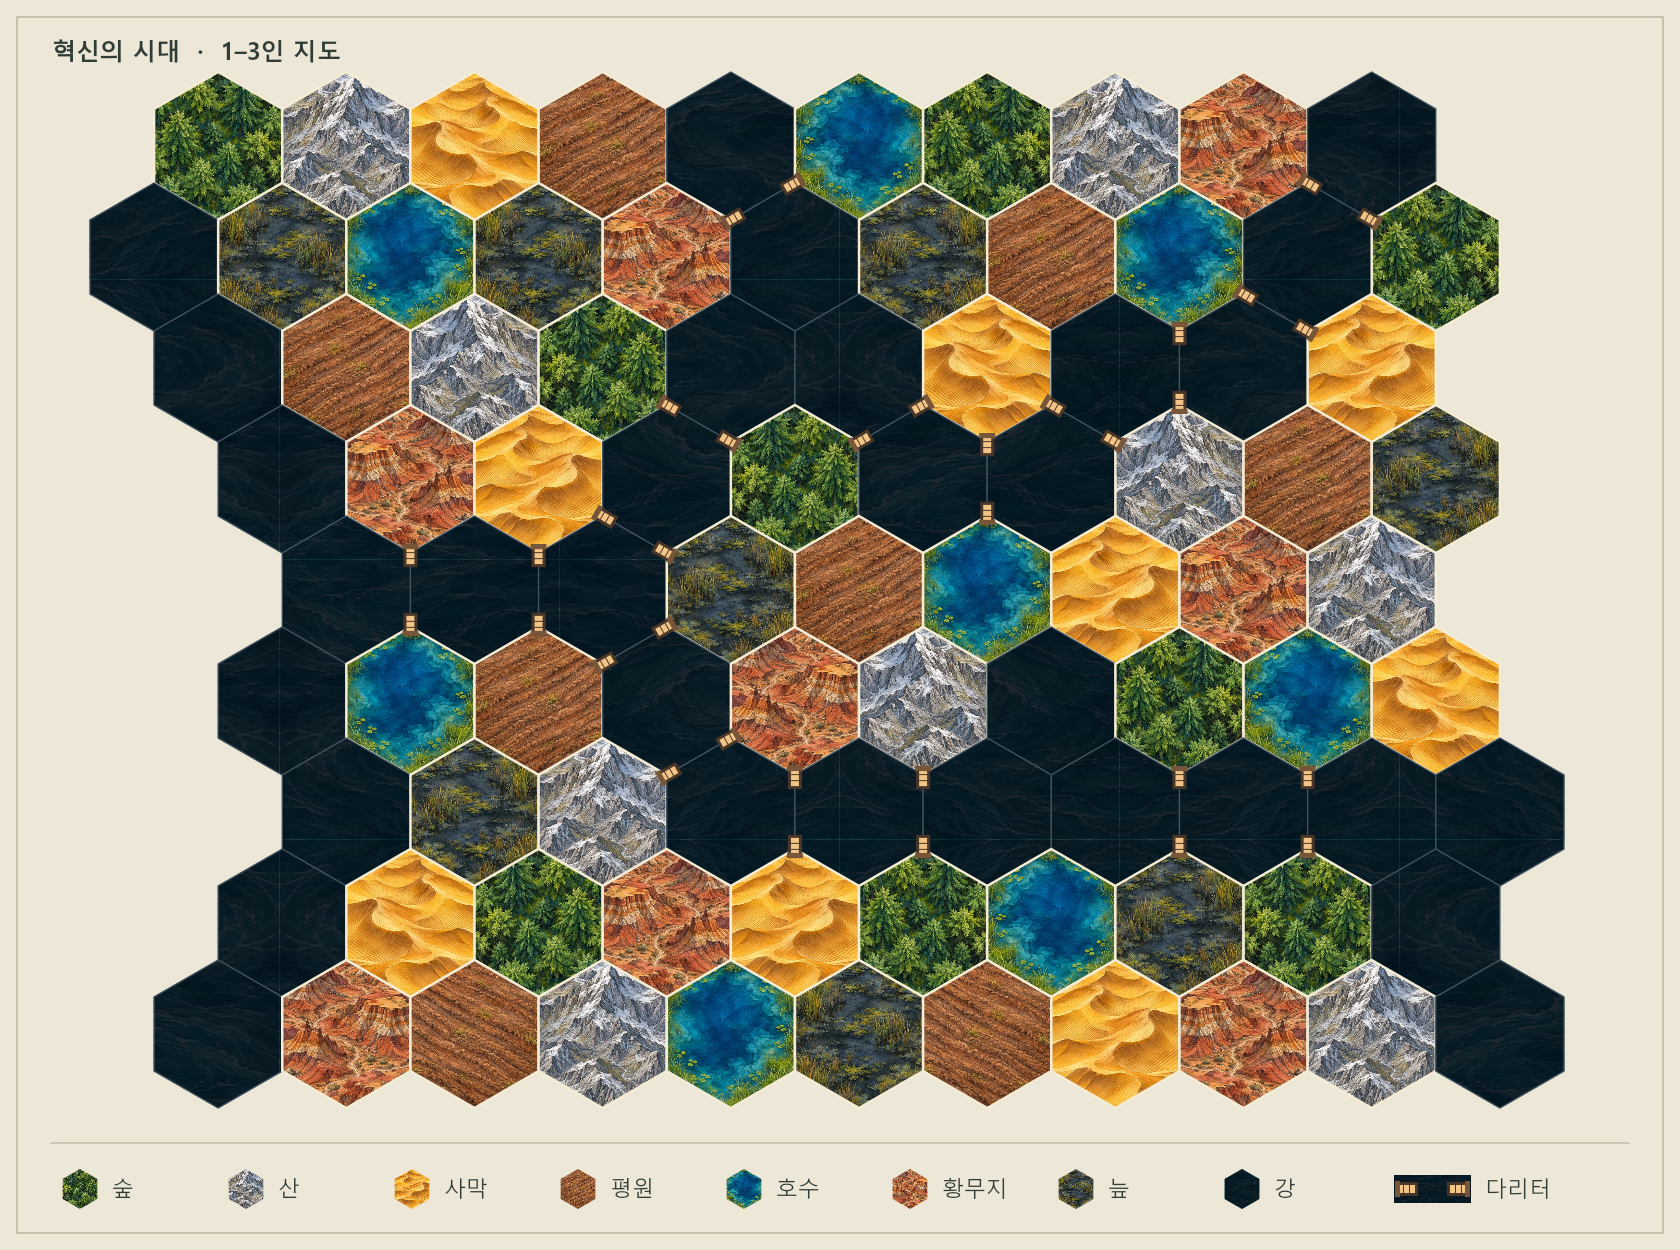
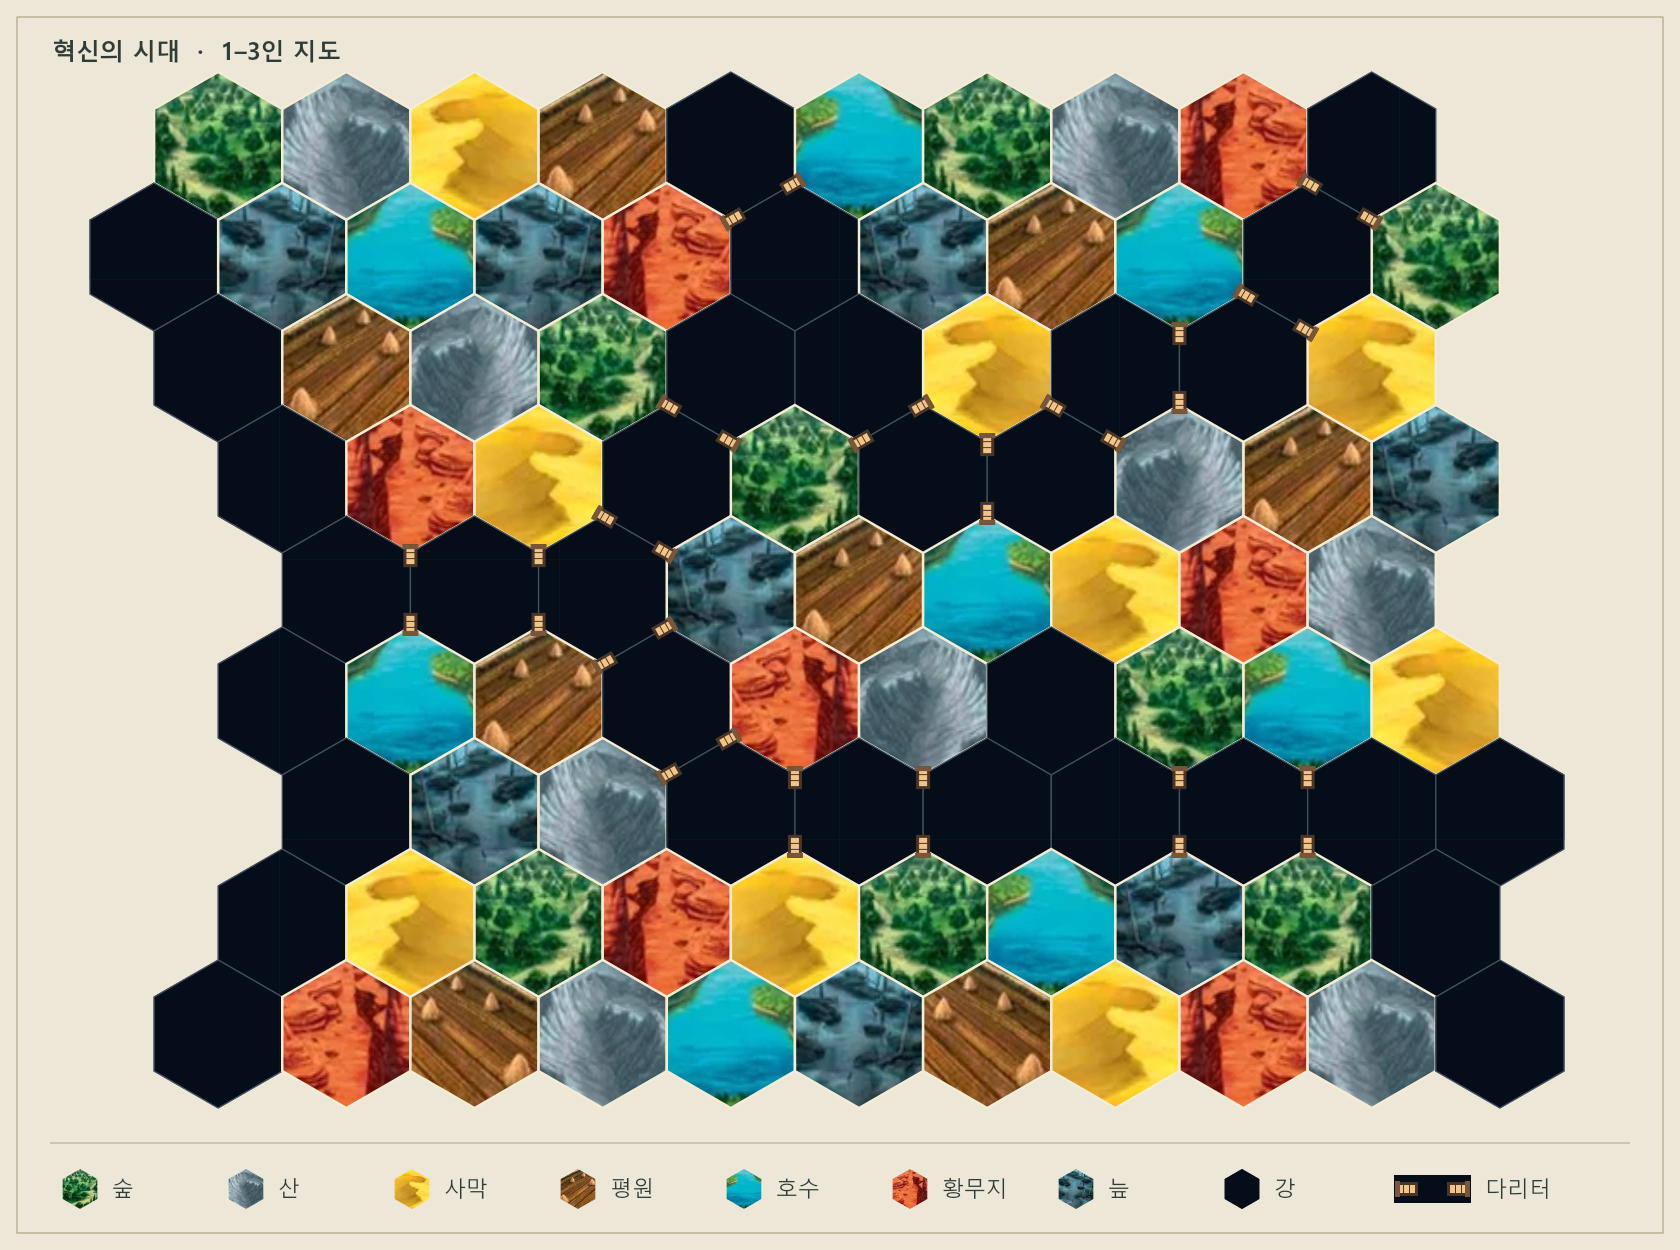
Show original board components and preview player actions before committing

diff --git a/src/ui/table.css b/src/ui/table.css
@@ -87,6 +87,8 @@ h1,h2,.brand {
   color:#ddc79b;
 }
 
+.emblem img { width:74%; height:auto; }
+
 .emblem {
   border:1px solid #b99c62;
   display:grid;
@@ -282,25 +284,27 @@ main {
   pointer-events:none;
 }
 
-.piece {
-  z-index:1;
-  background:#e8ece9;
-  color:#233941;
-  border:2px solid #444e4d;
-  border-radius:5px 5px 8px 8px;
-  line-height:1.1;
-  min-width:21px;
-  padding:2px 3px;
-  font-size:clamp(12px,1.5vw,22px);
-  font-family:Georgia,serif;
-  box-shadow:0 2px 1px #15221ca8;
+.wood {
+  display:inline-block;
+  width:1.5em;
+  aspect-ratio:1;
+  background:url('../../public/components/wooden-pieces.webp') no-repeat;
+  background-size:800% 900%;
+  vertical-align:middle;
+  flex:none;
 }
 
-.bot {
-  background:#f4bf51;
-  border-color:#704d16;
-  color:#402806;
+.piece {
+  position:absolute;
+  inset:17%;
+  display:grid;
+  place-items:center;
+  z-index:1;
+  filter:drop-shadow(0 1px 1px #171e1d);
 }
+
+.piece .wood { width:100%; }
+.piece sup { position:absolute; top:0; left:0; background:white; border-radius:50%; }
 
 .board-token {
   color: #f5d89e;
@@ -319,7 +323,8 @@ main {
   width:8px;
   height:8px;
   border-radius:50%;
-  margin-left:-1px;
+  top:5%;
+  right:2%;
 }
 
 .map-svg {
@@ -349,10 +354,6 @@ main {
   margin-right:4px;
   background:#d9dcd7;
   border:1px solid #506059;
-}
-
-.dot.gold {
-  background:#e8b850;
 }
 
 .dot.purple {
@@ -391,20 +392,10 @@ main {
   isolation:isolate;
 }
 
-.team::before {
-  content:"";
-  position:absolute;
-  inset:0;
-  background:linear-gradient(90deg,#182a27ed,#1c393b99),url('../../public/boards/terrain-atlas.webp');
-  background-size:100% 100%,400% 200%;
-  background-position:center,33.33% 0;
-  z-index:-1;
-}
-
-.team.other::before {
-  background-image:linear-gradient(90deg,#403020ef,#4b341e77),url('../../public/boards/terrain-atlas.webp');
-  background-position:center,66.67% 0;
-}
+.team.other { background:#51422c; }
+.team > img { position:absolute; right:-6%; bottom:-12%; height:105%; opacity:.26; z-index:-1; }
+.team small .component-art { vertical-align:middle; width:19px; height:19px; margin-right:4px; }
+.map-key .wood { margin-right:4px; }
 
 .team small {
   font-size:12px;
@@ -660,9 +651,6 @@ select {
   .intro {
     margin-top:18px;
   }
-  .piece {
-    font-size:17px;
-  }
 }
 
 @media(max-width:570px) {
@@ -701,12 +689,6 @@ select {
   .side {
     grid-template-columns:1fr;
   }
-  .piece {
-    min-width:12px;
-    font-size:13px;
-    padding:0 1px;
-    border-width:1px;
-  }
   .bar {
     padding:8px 12px;
   }
@@ -738,3 +720,62 @@ select {
 .log .score-change { display: block; color: #355843; }
 .log details li { display: list-item; padding: 0; border: 0; }
 .save-status { margin: .25rem 0; color: var(--muted); font-size: .9rem; }
+
+.component-art { object-fit:contain; }
+.resources b { display:flex; align-items:center; justify-content:center; gap:5px; }
+.resources b img,.resources b .wood { width:21px; height:21px; }
+
+.bonus-offer { border:0; padding:0; margin:12px 0 0; display:grid; grid-template-columns:repeat(4,minmax(0,1fr)); gap:6px; }
+.bonus-offer legend { padding:0; margin-bottom:5px; font-size:14px; font-weight:650; }
+.bonus-offer label { position:relative; cursor:pointer; }
+.bonus-offer input { position:absolute; opacity:0; }
+.bonus-offer label span { display:flex; height:100%; flex-direction:column; align-items:center; gap:5px; padding:7px 3px; text-align:center; border:1px solid var(--line); border-radius:6px; }
+.bonus-offer input:checked + span { background:#e3ecdf; border:2px solid var(--green); padding:6px 2px; }
+.bonus-offer input:focus-visible + span { outline:3px solid #ce762c; }
+.bonus-offer img { width:100%; height:83px; }
+.bonus-offer small { font-size:12px; }
+.choice { display:flex; align-items:center; gap:10px; }
+.choice .component-art { width:clamp(46px,5vw,70px); height:42px; flex:none; }
+.choice img[src*="/round-bonus/"] { height:70px; }
+.score-tile { position:relative; display:inline-block; width:min(100%, 100px); vertical-align:middle; }
+.score-tile img { width:100%; display:block; }
+.score-tile img + img { position:absolute; top:0; right:0; width:auto; height:100%; }
+
+.science-layout { display:grid; grid-template-columns:minmax(0,1.1fr) minmax(150px,1fr); align-items:start; gap:clamp(12px,3vw,32px); margin:12px 0; }
+.science-figure { margin:0; }
+.science-headings { display:grid; grid-template-columns:repeat(4,1fr); padding:0 3.5%; max-width:440px; margin:0 auto 4px; text-align:center; font-size:13px; font-weight:650; }
+.science-board { position:relative; max-width:440px; margin:auto; }
+.science-print { display:block; width:100%; height:auto; border-radius:3px; }
+.track-piece { position:absolute; transform:translate(-50%,-50%); width:5.8%; aspect-ratio:1; display:grid; place-items:center; }
+.track-piece .wood { width:100%; filter:drop-shadow(0 0 1px white) drop-shadow(0 1px 1px #302419); }
+.component-key { display:flex; flex-wrap:wrap; justify-content:center; gap:12px; font-size:13px; margin-top:6px; }
+.component-key span .wood { margin-right:3px; }
+.inventory { min-width:0; }
+.inventory h3 { font-size:16px; margin:0 0 7px; }
+.inventory h3:not(:first-child) { margin-top:16px; }
+.books { list-style:none; padding:0; margin:0; }
+.books li { display:flex; align-items:center; gap:8px; border-bottom:1px solid var(--line); padding:5px 0; font-size:16px; }
+.books li img { width:24px; height:32px; }
+.books li b { margin-left:auto; }
+.development,.held-bonus { display:flex; align-items:center; gap:10px; font-size:16px; }
+.development img { width:40px; height:40px; }
+.held-bonus img { width:44px; height:auto; }
+@media(max-width:570px) {
+  .science-layout { grid-template-columns:minmax(0,1fr); }
+  .books { display:grid; grid-template-columns:repeat(2,minmax(0,1fr)); column-gap:12px; }
+  .ledger td,.ledger th { padding:4px; }
+  .ledger .score-tile { min-width:50px; }
+}
+
+.board-token .component-art { width:1em; height:1em; vertical-align:middle; }
+
+.inventory .summary-line { font-size:16px; }
+.development { flex-wrap:wrap; }
+.development img[src*="/spade-cost/"] { width:auto; max-width:68px; height:40px; border-radius:2px; }
+.preview-panel { border-color:var(--green); }
+.preview-changes { padding:0; margin:.65rem 0; list-style:none; }
+.preview-changes li { display:flex; flex-wrap:wrap; justify-content:space-between; gap:.5em; border-bottom:1px solid var(--line); padding:.2em 0; }
+.track-change { display:inline-flex; align-items:center; gap:.4em; }
+.track-change img { height:28px; width:auto; }
+.preview-buttons { display:flex; gap:.5rem; margin-top:.85rem; }
+.preview-buttons button { flex:1; width:auto; margin:0; }

diff --git a/index.html b/index.html
@@ -8,7 +8,7 @@
   <link rel="stylesheet" href="./src/ui/table.css">
 </head>
 <body>
-  <header class="mast"><div class="mast-inner"><a class="brand" href="./" aria-label="혁신의 시대 홈"><span class="emblem" aria-hidden="true">♜</span><span>혁신의 시대<small>AGE OF INNOVATION</small></span></a>
+  <header class="mast"><div class="mast-inner"><a class="brand" href="./" aria-label="혁신의 시대 홈"><span class="emblem" aria-hidden="true"><img src="./public/components/terrain/forest.webp" alt=""></span><span>혁신의 시대<small>AGE OF INNOVATION</small></span></a>
     <nav aria-label="게임 화면"><button data-view="game" aria-pressed="true">게임 테이블</button><button data-view="records">대국 기록</button><button data-view="guide">게임 안내</button></nav>
     <span class="edition">1인 오토마</span></div></header>
   <main id="app"><p>게임 테이블을 준비하고 있습니다.</p></main>

diff --git a/docs/setup.md b/docs/setup.md
@@ -40,10 +40,10 @@ const position = placeStartingBuildings(deal, {
 
 세 종족의 인쇄된 영문 카드와 업적 조건을 대조했다. [종족 카드 원본 사진](https://www.reddit.com/r/soloboardgaming/comments/1aujnea/comment/krkt6yl/) · [업적 카드 원본 사진](https://www.reddit.com/r/soloboardgaming/comments/1aujnea/comment/krkt7za/)
 
-## 보드 이미지 재생성
+## 보드와 구성물 이미지
 
-`public/boards/terrain-atlas.webp`는 내장 ImageGen으로 만든 원화다. `npm run render:board`는 이를 좌표에 맞춰 `public/boards/small-board.png`로 그린다. 렌더러는 개발 의존성 `@napi-rs/canvas`를 사용한다. 한국어 문자에는 맑은 고딕 또는 Noto Sans KR을 사용한다. 브라우저에서는 `drawSmallBoard(ctx, atlas)`로 같은 지도를 그리고 `hexCenter(cell)`로 기물을 정렬할 수 있다.
+`public/boards/terrain-atlas.webp`는 헬퍼의 원본 지형 타일 일곱 장에서 잘라낸 지형과 짙은 강 색을 담는다. `npm run render:board`는 이 파일과 보드 좌표로 지도 PNG를 다시 그린다.
 
-원화 생성 프롬프트
+`public/components/`의 항해, 과학 분야, 종족, 지형, 혁신, 궁전, 적성, 라운드 보너스·득점, 책 행동 이미지는 [오토마 헬퍼의 원본 자산](https://github.com/brdgm/age-of-innovation-solo-helper/tree/bde1baec322d97b1fc022df1e34e03f7818c4521/src/assets)에서 가져왔다. 과학 판면과 책은 영문 기본 규칙서 2쪽, 나무 기물과 자원은 3쪽, 도시 타일과 파워 행동은 23쪽의 구성물 그림을 사용한다.
 
-> Create one production terrain texture atlas for an original illustrated hex-board game, wide 2:1 image, exactly four equal columns by two equal rows, eight edge-to-edge square paintings, no gutters, frames, hex outlines, letters, symbols or words. Straight orthographic overhead, finely etched pen-and-watercolour cartography with readable centered terrain motifs. Top row left to right: rich green conifer forest canopies; cool silver-gray rocky mountains; bright golden-yellow sand dunes; warm brown ploughed plains. Bottom row left to right: sapphire-blue inland lake rimmed by green reeds; warm red-ochre badlands and eroded mesas; near-black slate marsh with muted olive reeds; luminous turquoise flowing river surface, only water with fine silver currents. Keep terrains clearly distinguishable at thumbnail size; full bleed land or water to every edge. No buildings, bridges, playing pieces or game typography.
+삽당 도구 1·2·3개 도안은 [공식 영문 규칙서 11쪽](https://www.feuerland-spiele.de/fileadmin/game/Age_of_Innovation/Age_of_Innovation_rules_EN_V1-1_low.pdf#page=11)의 지형 변환 트랙에서 각 비용 칸을 잘라 사용한다.

diff --git a/README.md b/README.md
@@ -7,7 +7,7 @@
 Node.js 24에서 `npm start`를 실행하고 [게임 테이블](http://127.0.0.1:4173/)을 연다. 플레이와 테스트에는 별도의 패키지 설치가 필요 없다. 같은 브라우저와 주소에서 다시 열거나 새로고침하면 마지막 대국을 자동으로 이어간다. 초기 배치부터 책 선택, 파워 수락, 오토마 카드 공개까지 확정한 선택을 브라우저에 저장한다.
 
 1. 난이도와 양측 종족, 시작 건물 위치, 보너스 타일을 고른 뒤 **대국 시작**을 누른다.
-2. 지도에서 건설·개량할 칸을 고르거나 행동 메뉴에서 과학, 혁신, 파워, 책 행동을 선택한다. 비용을 확인하고 행동한 뒤 **차례 마치기**를 누른다. 행동 전후에 자원을 교환할 수 있다.
+2. 지도에서 건설·개량할 칸을 고르거나 행동 메뉴에서 과학, 혁신, 파워, 책 행동을 선택한다. 행동을 고르면 지도와 자원에 예상 결과가 표시된다. **되돌리기**로 다시 선택하거나 **확정**으로 결과를 저장한 뒤 **차례 마치기**를 누른다. 행동 전후에 자원을 교환할 수 있다.
 3. **오토마 차례 진행**을 누르면 결정 카드의 효과가 순서대로 적용된다. 인접 건물에서 제안받은 파워는 수락하거나 거절한다.
 4. 지도에서 점이 찍힌 칸은 현재 메뉴에서 행동할 수 있다. 오토마가 선택한 칸에는 이중 테두리가 나타나며, 지도 아래와 **대국 기록**에서 적용한 우선순위와 표식 거리를 확인할 수 있다.
 5. 먼저 패스한 쪽이 다음 라운드의 선이 된다. 6라운드에 양측이 패스하면 영역, 네 과학, 잔여 자원과 총점이 표시된다. **대국 기록**의 승점 증감 합계는 시작 승점과 최종 정산을 포함한다.
@@ -36,7 +36,8 @@ npm run render:board
 | `src/game/data/` | 결정 카드 등 고정 데이터 |
 | `src/render/` | 게임 좌표를 화면에 그리는 렌더러 |
 | `src/ui/` | 한국어 게임 테이블, 행동 선택, 보드 위 기물과 점수 표시 |
-| `public/boards/` | 지형 원화와 생성된 보드 PNG |
+| `public/boards/` | 원본 지형 타일로 구성한 작은 보드와 지형 텍스처 |
+| `public/components/` | 과학 판면, 나무 기물, 종족, 타일, 자원 아이콘 |
 | `scripts/` · `test/` | 이미지 생성 명령과 규칙 검증 |
 | `docs/` | 규칙 출처, 세팅 예시와 구현 범위 |
 | `references/rules/` | 로컬 기본·오토마 규칙서 PDF |

diff --git a/task-log.md b/task-log.md
@@ -15,3 +15,9 @@
   테스트 54개를 통과했고 난이도·오토마 50개 조합의 기록 합계가 최종 점수와 일치했다. 브라우저에서 책 선택과 오토마 차례를 새로고침으로 복원하고 E9 작업장의 미표시 판정과 대국 기록을 확인했다.
 
 - 2026-11-27 원격 1~5단계 브랜치의 모든 커밋을 포함하는 `97c085b`에서 통합 브랜치 `dev`를 만들고, 전체 테스트 54개를 다시 실행해 모두 통과했다.
+
+- 2026-11-27 헬퍼와 규칙서의 원본 그림으로 보드 지형·건물·타일·항해 아이콘을 교체하고, 과학 판면에 양측의 단계 마커와 파견 학자를 표시했다.
+  테스트 54개를 통과했고 브라우저에서 학자 파견 후 은행학 0→3 전진, 저장 복원, 360px 모바일 표시와 이미지 로딩을 확인했다.
+
+- 2026-11-27 공식 지형 변환 트랙의 삽당 도구 비용 아이콘을 적용하고 자원 글자를 키웠다. 플레이어 행동은 결과를 미리 본 뒤 확정하거나 되돌릴 수 있다.
+  테스트 54개를 통과했고 브라우저에서 개량·자원 변화, 취소, 확정 전후 새로고침, 책 선택, 오토마 차례와 모바일 표시를 확인했다.
